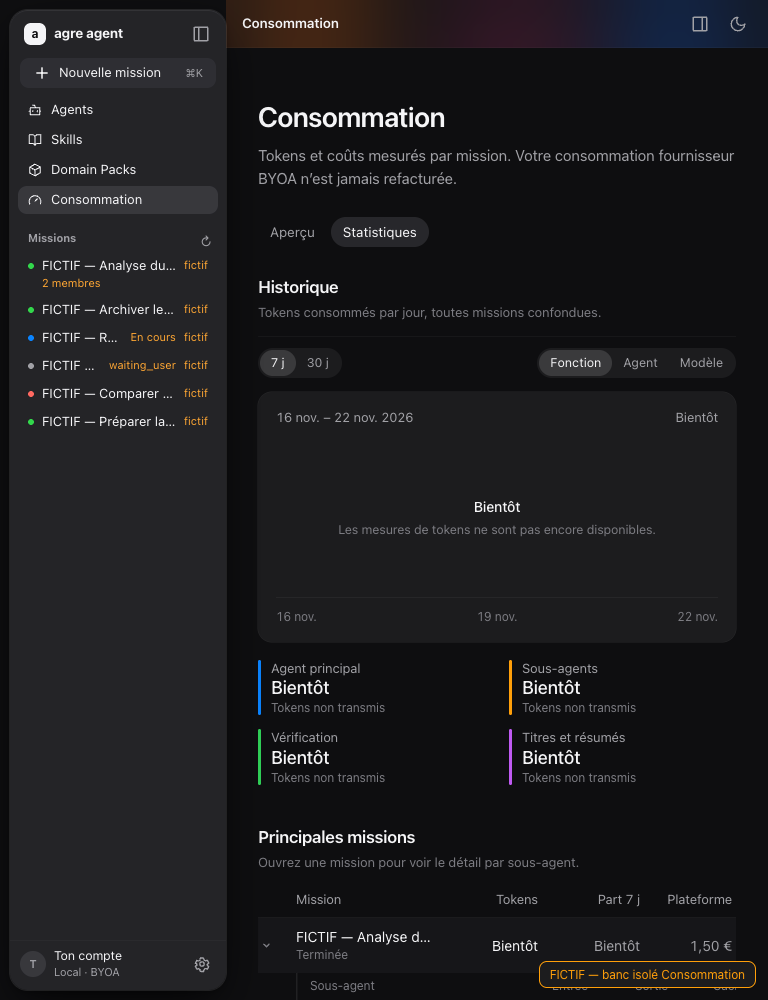
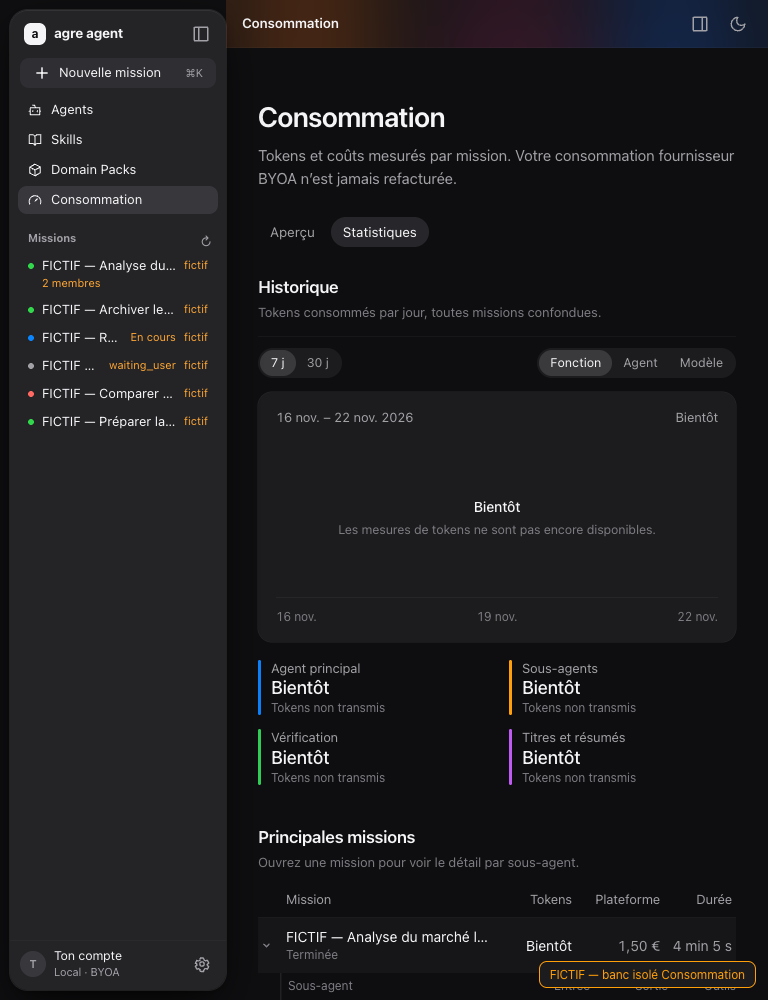
[orchestre-B] Aller-retour 1 : tableaux sans débordement à 1024 et 768 px (Part puis Cache repliées, titres en ellipse), contrôle de débordement dans le banc de captures
Code écrit par Codex (chantier B), commité par le chef de chantier. Build vert, 534/534 tests, 12 captures après.

Changed region(s): [[0.375, 0.899, 0.75, 0.992], [0.875, 0.93, 0.9375, 0.961], [0.7812, 0.93, 0.8438, 0.961]]

diff --git a/src/screen-consumption.css b/src/screen-consumption.css
@@ -22,6 +22,8 @@
   letter-spacing: -0.008em;
 }
 .cs-content {
+  container-name: cs-content;
+  container-type: inline-size;
   box-sizing: content-box;
   max-width: 880px;
   margin: 0 auto;
@@ -83,12 +85,14 @@
   color: #f5f5f7;
 }
 .cs-overview {
+  min-width: 0;
   display: flex;
   flex-direction: column;
   gap: 36px;
   animation: cs-rise 0.2s ease-out;
 }
 .cs-stats {
+  min-width: 0;
   display: flex;
   flex-direction: column;
   gap: 40px;
@@ -96,10 +100,12 @@
 }
 .cs-kpis {
   display: grid;
-  grid-template-columns: repeat(auto-fit, minmax(200px, 1fr));
+  grid-template-columns: repeat(auto-fit, minmax(min(200px, 100%), 1fr));
   gap: 20px 32px;
 }
 .cs-kpi {
+  min-width: 0;
+  overflow-wrap: anywhere;
   display: flex;
   flex-direction: column;
   gap: 2px;
@@ -148,6 +154,7 @@
   box-shadow: inset 0 -0.5px 0 rgba(255, 255, 255, 0.06);
 }
 .cs-account-name {
+  overflow-wrap: anywhere;
   display: flex;
   flex-direction: column;
   line-height: 1.35;
@@ -155,6 +162,7 @@
   font-size: 14.5px;
 }
 .cs-account-limits {
+  overflow-wrap: anywhere;
   display: flex;
   flex-direction: column;
   gap: 6px;
@@ -359,15 +367,17 @@
   font-variant-numeric: tabular-nums;
 }
 .cs-missions {
+  min-width: 0;
   display: flex;
   flex-direction: column;
   gap: 10px;
 }
 .cs-table-scroll {
-  overflow-x: auto;
+  min-width: 0;
 }
 .cs-table {
-  min-width: 560px;
+  min-width: 0;
+  width: 100%;
   display: flex;
   flex-direction: column;
   font-size: 14px;
@@ -384,6 +394,10 @@
   box-shadow: inset 0 -0.5px 0 rgba(255, 255, 255, 0.14);
 }
 .cs-number {
+  min-width: 0;
+  overflow: hidden;
+  text-overflow: ellipsis;
+  white-space: nowrap;
   text-align: right;
   font-variant-numeric: tabular-nums;
 }
@@ -491,6 +505,7 @@
   color: #f5f5f7;
 }
 .cs-note {
+  overflow-wrap: anywhere;
   padding-top: 6px;
   color: #7c7c82;
   font-size: 12.5px;
@@ -532,6 +547,49 @@
 }
 .cs-measured .usage-card {
   margin-top: 8px;
+}
+/* Largeur du contenu, après barre latérale et marges, y compris dans Settings. */
+@container cs-content (max-width: 680px) {
+  .cs-mission-columns {
+    grid-template-columns: 16px minmax(0, 1fr) 70px 80px 64px;
+    gap: 8px;
+  }
+  .cs-col-share {
+    display: none;
+  }
+}
+@container cs-content (max-width: 520px) {
+  .cs-detail {
+    margin-left: 22px;
+    padding-left: 8px;
+  }
+  .cs-detail-columns {
+    grid-template-columns: minmax(0, 1fr) 70px 70px 60px;
+    gap: 8px;
+  }
+  .cs-col-cache {
+    display: none;
+  }
+  .cs-member {
+    display: grid;
+    grid-template-columns: 18px minmax(0, 1fr);
+    column-gap: 6px;
+    row-gap: 0;
+  }
+  .cs-member-agent {
+    grid-column: 2;
+    min-width: 0;
+    overflow: hidden;
+    text-overflow: ellipsis;
+    white-space: nowrap;
+  }
+  .cs-measured .usage-card {
+    grid-template-columns: minmax(0, 1fr);
+  }
+  .cs-measured .usage-card > div {
+    min-width: 0;
+    overflow-wrap: anywhere;
+  }
 }
 @media (hover: hover) and (pointer: fine) {
   .cs-screen .cs-segmented button:hover {

diff --git a/src/Consumption.tsx b/src/Consumption.tsx
@@ -462,7 +462,9 @@ export function Consumption({
                     <span />
                     <span>Mission</span>
                     <span className="cs-number">Tokens</span>
-                    <span className="cs-number">Part {period} j</span>
+                    <span className="cs-number cs-col-share">
+                      Part {period} j
+                    </span>
                     <span className="cs-number">Plateforme</span>
                     <span className="cs-number">Durée</span>
                   </div>
@@ -520,7 +522,7 @@ export function Consumption({
                             <span className="cs-number">
                               {tokenValue(tokens?.total)}
                             </span>
-                            <span className="cs-number cs-secondary">
+                            <span className="cs-number cs-secondary cs-col-share">
                               {periodTokens !== undefined && totalTokens > 0
                                 ? percentage(periodTokens, totalTokens)
                                 : "Bientôt"}
@@ -544,7 +546,10 @@ export function Consumption({
                                 <span>Sous-agent</span>
                                 {["Entrée", "Sortie", "Cache", "Outils"].map(
                                   (label) => (
-                                    <span className="cs-number" key={label}>
+                                    <span
+                                      className={`cs-number${label === "Cache" ? " cs-col-cache" : ""}`}
+                                      key={label}
+                                    >
                                       {label}
                                     </span>
                                   ),
@@ -567,7 +572,10 @@ export function Consumption({
                                       >
                                         {row.name}
                                       </span>
-                                      <span className="cs-member-agent">
+                                      <span
+                                        className="cs-member-agent"
+                                        title={row.agent || "Bientôt"}
+                                      >
                                         {row.agent || "Bientôt"}
                                       </span>
                                     </span>
@@ -577,7 +585,7 @@ export function Consumption({
                                     <span className="cs-number">
                                       {tokenValue(detail?.output)}
                                     </span>
-                                    <span className="cs-number">
+                                    <span className="cs-number cs-col-cache">
                                       {tokenValue(detail?.cache)}
                                     </span>
                                     <span className="cs-number">

diff --git a/src/consommation-responsive.test.tsx b/src/consommation-responsive.test.tsx
@@ -1,0 +1,69 @@
+import { afterEach, expect, it, vi } from "vitest";
+import { cleanup, fireEvent, render, screen } from "@testing-library/react";
+import { Consumption } from "./Consumption";
+import type { Catalog, Run } from "./types";
+
+// Données FICTIVES : jsdom vérifie les points de repli, sans simuler de mise en page.
+const catalog = {
+  agents: [],
+  meters: {},
+  pricing: { currency: "EUR", centsPerUnit: {}, monthlyCapCents: null },
+} as unknown as Catalog;
+const mission = {
+  id: "responsive-fictive",
+  prompt: "Mission FICTIVE au titre très long pour vérifier la troncature",
+  state: "completed",
+  agent: "agent-fictif",
+  family: [
+    {
+      id: "child-fictive",
+      titre: "Sous-agent FICTIF au titre très long pour vérifier la troncature",
+      agent: "agent-fictif-au-nom-très-long",
+      etape: { numero: 1 },
+      outils: 0,
+    },
+  ],
+} as unknown as Run;
+
+afterEach(cleanup);
+
+it("repère les mêmes colonnes repliables dans les en-têtes et les lignes, sans perdre les titres complets", () => {
+  const { container } = render(
+    <Consumption
+      catalog={catalog}
+      runs={[mission]}
+      selected={mission}
+      onSelect={vi.fn()}
+    />,
+  );
+  fireEvent.click(
+    screen.getByRole("button", { name: /Mission FICTIVE au titre/ }),
+  );
+  expect(screen.getByText("Part 7 j").classList.contains("cs-col-share")).toBe(
+    true,
+  );
+  expect(
+    container.querySelectorAll(".cs-mission-toggle .cs-col-share"),
+  ).toHaveLength(1);
+  expect(screen.getByText("Cache").classList.contains("cs-col-cache")).toBe(
+    true,
+  );
+  expect(
+    container.querySelectorAll(".cs-detail-row .cs-col-cache"),
+  ).toHaveLength(1);
+  expect(
+    screen.getByTitle(mission.prompt).classList.contains("cs-truncate"),
+  ).toBe(true);
+  expect(
+    screen
+      .getByTitle(mission.family![0].titre!)
+      .classList.contains("cs-truncate"),
+  ).toBe(true);
+  expect(
+    screen
+      .getByTitle(mission.family![0].agent!)
+      .classList.contains("cs-member-agent"),
+  ).toBe(true);
+  expect(screen.getByText("Durée")).toBeTruthy();
+  expect(screen.getByText("Outils")).toBeTruthy();
+});

diff --git a/docs/orchestration/report-B.md b/docs/orchestration/report-B.md
@@ -2,7 +2,7 @@
 
 ## 1. Fait
 
-- Livraison de code validée ; **aucun commit créé** à cause du refus d’écriture du verrou Git décrit ci-dessous. Branche conservée : `feat/consommation`, base `b9cbe19`.
+- Première livraison enregistrée par le chef de chantier dans **`93bb5f0`**, après les refus initiaux de verrou Git conservés dans le journal. Captures avant/après également réalisées par le chef aux trois largeurs. Branche conservée : `feat/consommation`, base initiale `b9cbe19`.
 - 12:08 — Lecture de `AGENTS.md`, du plan d’orchestration, des deux skills de design, de la maquette lisible, des types et de l’écran existant. Aucun fichier partagé modifié.
 - Travail parallèle limité au périmètre B : tests de comportement et banc de captures ; implémentation de l’écran et journal par l’agent principal.
 - Journal centralisé ici conformément au brief et à sa liste exclusive de fichiers autorisés (pas de second rapport dans `.manager`).
@@ -13,8 +13,8 @@
 
 ## 2. Non fait
 
-- **Commits locaux bloqués par le bac à sable** : `git add` refuse de créer `/Users/diaw/Downloads/agregat-front/.git/worktrees/agregat-wt-b/index.lock` (`Operation not permitted`, code 128). Aucun commit créé, aucune réécriture, aucun push. Le chef devra enregistrer les changements après relecture.
-- Le code est finalisé et validé. Restent uniquement l’enregistrement Git et les captures/comparaisons visuelles, impossibles dans ce bac à sable. Il serait inexact d’inscrire « ÉTAT : TERMINÉ » avant les commits demandés.
+- Les blocages initiaux de commit/captures ont été pris en charge par le chef de chantier. Sa consigne pour l’aller-retour 1 est de laisser les corrections dans le worktree, **sans aucune tentative de commit**.
+- Correction responsive et validation de l’aller-retour 1 terminées. Les nouvelles dimensions en navigateur pourront être contrôlées par le chef avec le banc enrichi ; les mesures en navigateur n’ont pas été exécutées dans ce bac à sable.
 
 ## 3. Fichiers touchés
 
@@ -50,7 +50,7 @@ Points d’adaptation supplémentaires : `getOverviewTokens(runs, 7): TokenUsage
 - Coût estimé annoté, tarifs réels conservés dans un détail repliable de l’Aperçu, registre réel accessible dans un détail de mission : ajouts nécessaires pour conserver le comportement existant.
 - Les missions sont initialement repliées ; leur ouverture demande à `App` le détail réel avec `onSelect(id)`. Les sous-missions rattachées apparaissent sous leur mère ; les orphelines restent visibles.
 - 12:19 — Relecture croisée : corrections des espacements des barres (18 / 4 px), du `box-sizing` hérité (880 px de contenu + 64 px de marge intérieure, graphique 160 + 8 px), de la palette « Inconnu » (gris), du survol hérité, de l’accessibilité des infobulles et de la validation des dates de reprise. Le catalogue n’est pas présenté comme une preuve de connexion à un compte ; les démonstrateurs sont identifiés.
-- Pas de comparaison visuelle effective, car les serveurs locaux sont interdits par le bac à sable ; fidélité vérifiée par lecture des valeurs uniquement.
+- À la livraison initiale, comparaison visuelle impossible dans le bac à sable ; les captures réalisées ensuite par le chef ont été examinées pour l’aller-retour 1 (voir section dédiée).
 - La barre d’application existante (48 px) est réservée **hors** de l’écran ; les 48 px internes de la maquette sont conservés. Aucune réserve supplémentaire dans l’intégration à Settings. Animations de la source reprises (0,2 s / 0,18 s, translation de 4 px), désactivées en mouvement réduit.
 
 ## 6. Captures avant/après
@@ -58,13 +58,14 @@ Points d’adaptation supplémentaires : `getOverviewTokens(runs, 7): TokenUsage
 - 12:10 — AVANT tenté après build vert. Échec réel : `Error: listen EPERM: operation not permitted 127.0.0.1`. Chrome n’a pas été lancé, aucun contournement. Serveur fermé et dossier temporaire supprimé dans `finally`.
 - Erreur complète : `captures-B/avant-manifest.json`. Script prêt pour les captures APRÈS : Aperçu, Statistiques, mission dépliée, liste vide × 1440, 1024, 768 px. État AVANT : les onglets et les missions dépliables n’existaient pas ; le script documente les substitutions disponibles.
 - 12:19 — APRÈS tenté sur build vert : même refus `listen EPERM` sur `127.0.0.1` (code 1), conservé dans `captures-B/apres-manifest.json`. Aucune capture produite, aucun Chrome lancé, ressources temporaires supprimées.
+- Après la livraison initiale : le chef a réalisé les captures avant/après à 1440, 1024 et 768 px et les a enregistrées dans `93bb5f0`, avec le sélecteur `.cs-mission-toggle` corrigé. Les captures Statistiques, mission dépliée et Aperçu à 768/1024 ont servi à l’aller-retour 1. Les fichiers du chef sont conservés ; aucune nouvelle capture prétendument vérifiée n’est ajoutée ici.
 
 ## 7. Demandes au chef de chantier
 
 - Exposer un agrégat mensuel du ledger (devise/période/exhaustivité) : la liste de missions est limitée et ne contient pas `usage`, seul le détail le fournit aujourd’hui. La date de création d’une mission n’est pas la date de ses charges.
 - Fournir les champs du tableau ci-dessus et confirmer la disponibilité du contrat `family` sur le backend déployé. Les types/props/API partagés n’ont pas été modifiés.
-- Relancer le banc de captures depuis un environnement autorisant les serveurs locaux et Chrome, puis faire la comparaison visuelle (non vérifiable dans ce bac à sable).
-- Enregistrer les changements dans des commits locaux préfixés `[orchestre-B]` : l’écriture du verrou Git est interdite ici malgré le chemin annoncé comme autorisé. Aucun contournement tenté.
+- Captures et premier commit pris en charge par le chef (`93bb5f0`). Pour le contrôle visuel après correction responsive, le banc enrichi vérifiera aussi les dimensions réelles à 768/1024 lors de sa prochaine exécution autorisée.
+- Les corrections de l’aller-retour 1 restent dans le worktree, conformément à la nouvelle consigne du chef ; aucune tentative de commit.
 
 ## 8. Commandes et résultats
 
@@ -96,4 +97,22 @@ Points d’adaptation supplémentaires : `getOverviewTokens(runs, 7): TokenUsage
 
 - `git diff --check` et syntaxe du banc : verts. Tentative de lecture des processus via `ps` refusée par le bac à sable (`operation not permitted`), aucun contournement.
 
-ÉTAT : BLOQUÉ — code terminé et tests verts ; commits locaux et captures refusés par le bac à sable.
+## Aller-retour 1
+
+- 12:52 — Retour reçu : première livraison commitée par le chef (`93bb5f0`), captures avant/après présentes à 1440, 1024 et 768 px. Sa correction du sélecteur `.cs-mission-toggle` dans le banc est conservée. Worktree propre au début de ce retour.
+- Captures examinées : Statistiques, mission dépliée et Aperçu à 768 et 1024 px. À 768 px, le contenu fait environ 478 px après la barre latérale et les marges ; le `min-width: 560px` du tableau impose environ 82 px de débordement. À 1024 px, les tableaux et l’Aperçu tiennent dans environ 734 px ; les trois indicateurs de l’Aperçu et les comptes restent lisibles.
+- Test de régression écrit avant correction : repères de colonnes repliables sur les en-têtes **et** les cellules, titres complets accessibles malgré l’ellipse, durée et outils conservés. jsdom ne calcule pas les dimensions ; la règle de repli sera décrite ici et les mesures pourront être vérifiées par le banc de captures.
+- 12:54 — Test d’abord : `npx vitest run src/consommation-responsive.test.tsx` rouge, **1 échec / 1 test**, 4,63 s (classe de repli absente, échec attendu).
+- 12:55 — Correction dans `src/Consumption.tsx` et `src/screen-consumption.css` : suppression de la largeur minimale de 560 px et du défilement horizontal ; les grilles utilisent toute la largeur disponible, avec les titres tronqués par ellipse et leur texte complet en infobulle. Aucun masquage global du débordement.
+- Repli par **largeur du contenu**, via `container-name: cs-content` / `container-type: inline-size`, pour prendre en compte la barre latérale et l’intégration dans Settings :
+  - À **680 px ou moins**, `Part 7 j / 30 j` porte `cs-col-share` sur en-tête et cellule, puis est masquée ; grille mission `16px minmax(0,1fr) 70px 80px 64px`, espaces de 8 px. Durée reste visible.
+  - À **520 px ou moins**, `Cache` porte `cs-col-cache` sur en-tête et cellule, puis est masquée ; retrait du détail réduit de 52 à 30 px ; grille détail `minmax(0,1fr) 70px 70px 60px`, espaces de 8 px. Nom tronqué et agent sur une seconde ligne, avec noms complets dans les attributs `title`. Entrée, Sortie et Outils restent visibles.
+  - Avec les **478 px** de contenu de la capture 768, cela laisse **208 px** au titre de mission et **224 px** à l’identité du sous-agent. Avec les **734 px** de contenu de la capture 1024, aucune colonne n’est masquée et les espacements de la maquette sont conservés.
+- Aperçu vérifié sur les deux captures : disposition existante conservée (3 indicateurs à 1024, 2 puis 1 à 768). Les indicateurs reçoivent `min-width:0`, une borne minimale limitée à la largeur disponible et le retour à la ligne des textes/montants longs ; noms et descriptions de comptes peuvent couper les mots très longs. Le registre dépliable passe en une colonne dans un contenu étroit.
+- `scripts/orchestre-B-captures.mjs` enrichi, sans changer le sélecteur corrigé par le chef : avant chaque capture APRÈS à 1024 et 768, vérifie `scrollWidth <= clientWidth + 1` et les rectangles des tableaux/détails/indicateurs/comptes dans les limites du contenu, puis vérifie le masquage des colonnes selon les seuils. Les mesures sont enregistrées dans `layoutChecks` du manifeste lors de sa prochaine exécution. Non exécuté ici : le refus de serveur déjà constaté n’est pas contourné et les captures du chef ne sont pas écrasées.
+- 12:55 — Tests ciblés : `npx vitest run src/consommation-responsive.test.tsx src/consommation.test.tsx src/consommation-notes.test.tsx` : **24 tests verts, 3 fichiers verts**, 1,43 s. Syntaxe du banc et `git diff --check` verts.
+- 12:56 — `npm run build` : **vert** (TypeScript et Vite, 650 ms Vite ; avertissement de chunks > 500 kB déjà connu). **`npm test` complet sans option : 534 tests verts, 38 fichiers verts, 11,23 s, code 0**. Sorties : `/tmp/orchestre-B-retour-1-build.log` et `/tmp/orchestre-B-retour-1-tests.log`.
+- Fichiers de cet aller-retour : `src/Consumption.tsx`, `src/screen-consumption.css`, nouveau `src/consommation-responsive.test.tsx`, `scripts/orchestre-B-captures.mjs`, `docs/orchestration/report-B.md`. Aucun test existant adapté dans cet aller-retour, aucune assertion retirée ou désactivée.
+- Aucun commit tenté dans cet aller-retour, aucun serveur/Chrome relancé, aucune dépendance ajoutée.
+
+ÉTAT : TERMINÉ
